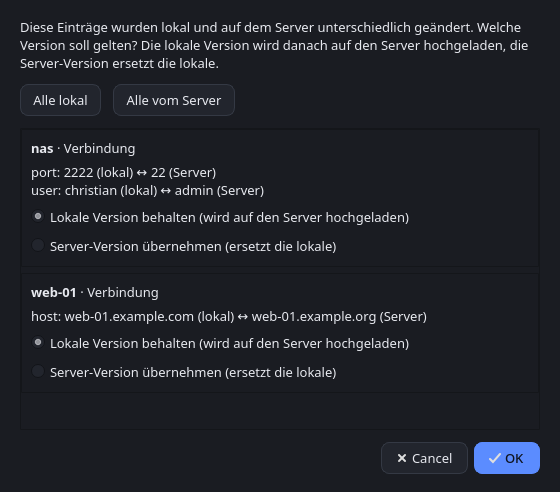
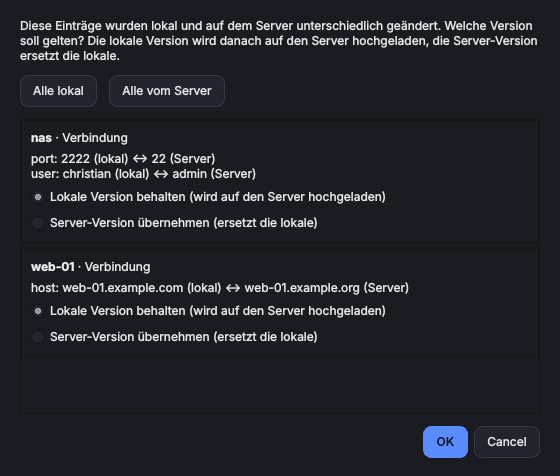
README und Screenshots an Version 3.7.1 angepasst
README (de/en): Abschnitte zu integriertem Terminal mit Kacheln und zum Zwischenablage-Verlauf, Proxmox je Knoten,
Hinweis auf die Einstellungen; neue Screenshots (Kacheln hell/dunkel, „Eingabe an alle“, Einstellungen).
Alle Screenshots neu erzeugt (Seitenleiste ohne Terminals/Viewer/Synchronisation). tools/screenshots.py um die
Bilder „kacheln“ und „einstellungen“ erweitert.

Claude-Session: https://claude.ai/code/session_01LZ7SSMG2W3aVt2BNVFYdXC

diff --git a/tools/screenshots.py b/tools/screenshots.py
@@ -33,7 +33,7 @@ from sesam.gui import style, theme  # noqa: E402
 from sesam.models import Config, Connection, Snippet, Terminal  # noqa: E402
 
 MODES = (("light", "hell"), ("dark", "dunkel"))
-PARTS = ("hauptfenster", "verbindung", "dateibrowser", "snippets", "synckonflikt")
+PARTS = ("hauptfenster", "verbindung", "dateibrowser", "snippets", "synckonflikt", "kacheln", "einstellungen")
 
 
 def demo_config() -> tuple[Config, dict[str, Connection]]:
@@ -92,7 +92,7 @@ def main_window(cfg, conns, tmp: Path, out: Path, label: str) -> None:
     from sesam.gui.main_window import MainWindow
 
     w = MainWindow(cfg, tmp / "config.json")
-    w.resize(1180, 680)
+    w.resize(1180, 760)
     w.show()
     QApplication.processEvents()
     boxes = [
@@ -113,9 +113,79 @@ def main_window(cfg, conns, tmp: Path, out: Path, label: str) -> None:
     item = w._find_item(conns["web1"].id)
     if item is not None:
         w.tree.setCurrentItem(item)
-    w.resize(1180, 680)
+    w.resize(1180, 760)
     grab(w, out / f"hauptfenster-{label}.png")
     w.close()
+
+
+DEMO_SESSIONS = (  # (Reitername, Prompt-Host, [(Befehl, Ausgabezeilen), …]) für das integrierte Terminal
+    ("web-01", "admin@web-01", [("uptime", [" 10:42:07 up 41 days,  3:12,  1 user,  load average: 0.08, 0.11, 0.09"]),
+                                ("systemctl is-active nginx", ["active"])]),
+    ("web-02", "admin@web-02", [("uptime", [" 10:42:09 up 41 days,  3:10,  1 user,  load average: 0.15, 0.12, 0.10"]),
+                                ("systemctl is-active nginx", ["active"])]),
+    ("db-01", "admin@db-01", [("df -h /var/lib/postgresql", ["Filesystem      Size  Used Avail Use% Mounted on",
+                                                             "/dev/sdb1       200G  128G   62G  68% /var/lib/postgresql"])]),
+    ("docker-host", "admin@docker", [("docker ps --format '{{.Names}}'", ["nginx", "postgres", "redis"])]),
+)
+
+
+def _terminal_window(cfg, tmp: Path):
+    """Hauptfenster mit vier Sitzungen des integrierten Terminals als Kacheln (ohne echte Prozesse, der Bildschirm wird mit Beispieltext gefüllt)."""
+    from sesam.gui.main_window import MainWindow
+    from sesam.gui.terminal_view import TerminalView
+
+    w = MainWindow(cfg, tmp / "config.json")
+    w.resize(1180, 680)
+    w.show()
+    QApplication.processEvents()
+    with mock.patch.object(TerminalView, "start", lambda self, args, env: None):
+        views = [w._open_embedded(["true"], name, {}) for name, _host, _commands in DEMO_SESSIONS]
+    w._tile_all()
+    w.resize(1180, 680)
+    for _ in range(5):
+        QApplication.processEvents()
+    for view, (_name, host, commands) in zip(views, DEMO_SESSIONS):
+        prompt = f"\x1b[1;32m{host}\x1b[0m:\x1b[1;34m~\x1b[0m$ "
+        text = "".join(prompt + command + "\r\n" + "".join(line + "\r\n" for line in output) for command, output in commands)
+        view._feed((text + prompt).encode())
+    views[0].setFocus()
+    for _ in range(5):
+        QApplication.processEvents()
+    return w, views
+
+
+def _close_terminal_window(w) -> None:
+    from PySide6.QtWidgets import QMessageBox
+
+    # Die Sitzungen sind Attrappen, gelten aber als laufend: die Rückfrage beim Beenden gleich bejahen
+    with mock.patch("sesam.gui.main_window.QMessageBox.question", return_value=QMessageBox.StandardButton.Yes):
+        w.close()
+
+
+def terminal_tiles(cfg, conns, tmp: Path, out: Path, label: str) -> None:
+    w, _views = _terminal_window(cfg, tmp)
+    grab(w, out / f"terminal-kacheln-{label}.png")
+    _close_terminal_window(w)
+
+
+def terminal_broadcast(cfg, conns, tmp: Path, out: Path) -> None:
+    w, _views = _terminal_window(cfg, tmp)
+    w._toggle_broadcast(w._terminal_tabs()[0])
+    for _ in range(5):
+        QApplication.processEvents()
+    grab(w, out / "terminal-eingabe-an-alle.png")
+    _close_terminal_window(w)
+
+
+def settings_dialog(cfg, conns, out: Path) -> None:
+    from sesam.gui.settings_dialog import SettingsDialog
+
+    nothing = lambda *_: None  # noqa: E731
+    d = SettingsDialog(100, "de", nothing, nothing, wireguard=True, set_wireguard=nothing, toasts=True, set_toasts=nothing,
+                       favorites=True, set_favorites=nothing, open_terminals=nothing, open_viewers=nothing, open_sync=nothing)
+    d.adjustSize()
+    grab(d, out / "einstellungen.png")
+    d.close()
 
 
 def connection_dialog(cfg, conns, out: Path) -> None:
@@ -222,6 +292,12 @@ def main() -> int:
                 main_window(cfg, conns, tmp, out, label)
             if "verbindung" in parts and mode == "light":
                 connection_dialog(cfg, conns, out)
+            if "einstellungen" in parts and mode == "light":
+                settings_dialog(cfg, conns, out)
+            if "kacheln" in parts:
+                terminal_tiles(cfg, conns, tmp, out, label)
+                if mode == "light":
+                    terminal_broadcast(cfg, conns, tmp, out)
             if "snippets" in parts:
                 snippets_dialog(cfg, conns, out, label)
             if "synckonflikt" in parts:

diff --git a/README.md b/README.md
@@ -34,6 +34,12 @@ Häufige Verbindungen als Favoriten oben im Baum (werden mit synchronisiert); St
 ### Eigenes Terminal
 Jede Verbindung öffnet sich im Terminal deiner Wahl (Windows Terminal, PowerShell, cmd, PuTTY, GNOME Terminal, eigene Programme) über frei konfigurierbare Befehlsvorlagen, auch pro Verbindung verschieden.
 
+### Integriertes Terminal
+Verbindungen öffnen sich auf Wunsch direkt in einem Reiter von Sesam, ohne externes Terminal (Auswahl, Kopieren, Verlauf, Schriftgröße). Mehrere Sitzungen lassen sich als **Kacheln** nebeneinander oder untereinander zeigen, auf Knopfdruck **alle Sitzungen als Raster**; optional geht die Eingabe an **alle Kacheln gleichzeitig** (ausdrücklich zuschaltbar, deutlich gekennzeichnet).
+
+### Zwischenablage-Verlauf
+Im Terminal Kopiertes bleibt abrufbar und lässt sich in einem oder mehreren Terminals einfügen; der Verlauf wird verschlüsselt gespeichert und nie synchronisiert.
+
 ### Zugangsdaten
 Passwörter im Schlüsselbund des Betriebssystems, nicht in der Konfigurationsdatei. Identitäten bündeln Benutzer, Schlüssel und Passwort für viele Verbindungen.
 
@@ -59,7 +65,7 @@ Den Bildschirm eines Geräts öffnen, im **eingebauten VNC-Viewer** oder im View
 Container eines Hosts im Verbindungsbaum anzeigen, starten, stoppen, neu starten, löschen und per Doppelklick eine Shell im Container öffnen.
 
 ### Proxmox
-VMs und LXC-Container im Baum, Shell in LXC und VM, Starten, Herunterfahren, Stoppen und Neustarten.
+VMs und LXC-Container des jeweiligen Knotens im Baum (in einem Cluster je Knoten eine Verbindung), Shell in LXC und VM, Starten, Herunterfahren, Stoppen und Neustarten.
 
 ### Cisco-Switches
 Ports im Baum mit Zustand, VLAN und Geschwindigkeit; ein- und ausschalten, Beschreibung ändern, Konfiguration speichern.
@@ -71,7 +77,7 @@ Die Statuszeile zeigt, ob der Rechner mit einem WireGuard-Tunnel verbunden ist (
 Verbindungen, Gruppen, Identitäten, Schlüssel und Snippets zwischen mehreren Geräten abgleichen; Passwörter und private Schlüssel nur verschlüsselt (AES-256-GCM).
 
 ### Windows und Linux
-Gleiche Bedienung auf beiden Systemen, helles und dunkles Design, einstellbare Schriftgröße, Oberfläche auf Deutsch und Englisch.
+Gleiche Bedienung auf beiden Systemen, helles und dunkles Design, einstellbare Schriftgröße, Oberfläche auf Deutsch und Englisch. Terminals, Viewer und Synchronisation verwaltest du in den **Einstellungen**.
 
 ## Start
 
@@ -158,6 +164,14 @@ Der Befehl `sesam` liegt in `~/.local/bin` (bei manchen Distributionen muss der 
 | ------------------------------------------------------ | ---------------------------------------------------------- |
 | ![Snippets (hell)](docs/screenshots/snippets-hell.png) | ![Snippets (dunkel)](docs/screenshots/snippets-dunkel.png) |
 
+| Integriertes Terminal mit Kacheln (hell) | Integriertes Terminal mit Kacheln (dunkel) |
+| ---------------------------------------- | ------------------------------------------ |
+| ![Kacheln (hell)](docs/screenshots/terminal-kacheln-hell.png) | ![Kacheln (dunkel)](docs/screenshots/terminal-kacheln-dunkel.png) |
+
+| „Eingabe an alle Kacheln senden“ (roter Rand) | Einstellungen |
+| --------------------------------------------- | ------------- |
+| ![Eingabe an alle Kacheln](docs/screenshots/terminal-eingabe-an-alle.png) | ![Einstellungen](docs/screenshots/einstellungen.png) |
+
 Die Bilder zeigen Beispieldaten (erfundene Hosts) und wurden mit dem Qt-Plattform-Plugin „offscreen“ erzeugt; echte Fenster können je nach Desktop in Rahmen und Schrift abweichen.
 
 ## Dokumentation
@@ -169,7 +183,7 @@ Die ausführliche Anleitung steht im Ordner [`docs/`](docs/):
 | ----------------------------------------------------------- | ---------------------------------------------------------------------------------------- |
 | [Verbindungen verwalten](docs/verbindungen.md)              | Darstellung, Gruppen, Favoriten und Schnellstarter, Farben und Tags, offene Verbindungen |
 | [Zugangsdaten und sudo](docs/zugangsdaten.md)               | Identitäten, SSH-Schlüssel, sudo, Passwörter                                          |
-| [Terminals und Snippets](docs/terminals-snippets.md)        | Terminals konfigurieren, Verbindungsfehler und Host-Schlüssel, Snippets                 |
+| [Terminals und Snippets](docs/terminals-snippets.md)        | Terminals konfigurieren, integriertes Terminal mit Kacheln, Zwischenablage-Verlauf, Verbindungsfehler und Host-Schlüssel, Snippets |
 | [Dateien und Tunnel](docs/dateien-tunnel.md)                | SFTP-Dateibrowser, Port-Weiterleitungen                                                  |
 | [Fernzugriff (VNC und RDP)](docs/fernzugriff.md)            | Eingebauter VNC-Viewer, externe Viewer, Tunnel und Direktverbindung, Passwort            |
 | [Docker, Proxmox, Cisco und WireGuard](docs/geraete.md)     | Container, Gäste, Switch-Ports, WireGuard-Anzeige                                       |

diff --git a/README.en.md b/README.en.md
@@ -34,6 +34,12 @@ Frequent connections as favorites at the top of the tree (synced too); Ctrl+K op
 ### Your own terminal
 Every connection opens in the terminal of your choice (Windows Terminal, PowerShell, cmd, PuTTY, GNOME Terminal, custom programs) through freely configurable command templates, also different per connection.
 
+### Integrated terminal
+Connections can open right in a tab of Sesam, without an external terminal (selection, copy, history, font size). Several sessions can be shown as **tiles** side by side or one below the other, and with one click **all sessions as a grid**; optionally your input goes to **all tiles at once** (switched on explicitly and clearly marked).
+
+### Clipboard history
+Text copied in the terminal stays available and can be pasted into one or several terminals; the history is stored encrypted and never synced.
+
 ### Credentials
 Passwords live in the operating system’s keychain, not in the configuration file. Identities bundle user, key and password for many connections.
 
@@ -59,7 +65,7 @@ Open a device's screen in the **built-in VNC viewer** or in the viewer of your c
 Show a host’s containers in the connection tree; start, stop, restart and delete them, and open a shell in a container with a double-click.
 
 ### Proxmox
-VMs and LXC containers in the tree, shell in LXC and VMs, start, shut down, stop and restart.
+VMs and LXC containers of the respective node in the tree (in a cluster one connection per node), shell in LXC and VMs, start, shut down, stop and restart.
 
 ### Cisco switches
 Ports in the tree with state, VLAN and speed; switch them on and off, change descriptions, save the configuration.
@@ -71,7 +77,7 @@ The status bar shows whether the computer is connected to a WireGuard tunnel (tu
 Sync connections, groups, identities, keys and snippets between several devices; passwords and private keys are stored encrypted only (AES-256-GCM).
 
 ### Windows and Linux
-The same experience on both systems, light and dark theme, adjustable font size, interface in German and English.
+The same experience on both systems, light and dark theme, adjustable font size, interface in German and English. You manage terminals, viewers and synchronization in the **Settings**.
 
 ## Getting started
 
@@ -157,6 +163,14 @@ The screenshots show the German interface; the English interface looks the same 
 | --- | --- |
 | ![Snippets (light)](docs/screenshots/snippets-hell.png) | ![Snippets (dark)](docs/screenshots/snippets-dunkel.png) |
 
+| Integrated terminal with tiles (light) | Integrated terminal with tiles (dark) |
+| --- | --- |
+| ![Tiles (light)](docs/screenshots/terminal-kacheln-hell.png) | ![Tiles (dark)](docs/screenshots/terminal-kacheln-dunkel.png) |
+
+| “Send input to all tiles” (red border) | Settings |
+| --- | --- |
+| ![Input to all tiles](docs/screenshots/terminal-eingabe-an-alle.png) | ![Settings](docs/screenshots/einstellungen.png) |
+
 The images show sample data (made-up hosts) and were created with the Qt platform plugin “offscreen”; real windows may differ in frame and font depending on the desktop.
 
 ## Documentation
@@ -167,7 +181,7 @@ The detailed guide is in the [`docs/en/`](docs/en/) folder:
 |---|---|
 | [Managing connections](docs/en/verbindungen.md) | Appearance, groups, favorites and quick launcher, colors and tags, open connections |
 | [Credentials and sudo](docs/en/zugangsdaten.md) | Identities, SSH keys, sudo, passwords |
-| [Terminals and snippets](docs/en/terminals-snippets.md) | Configuring terminals, connection errors and host keys, snippets |
+| [Terminals and snippets](docs/en/terminals-snippets.md) | Configuring terminals, integrated terminal with tiles, clipboard history, connection errors and host keys, snippets |
 | [Files and tunnels](docs/en/dateien-tunnel.md) | SFTP file browser, port forwarding |
 | [Remote access (VNC and RDP)](docs/en/fernzugriff.md) | Built-in VNC viewer, external viewers, tunnel and direct connection, password |
 | [Docker, Proxmox, Cisco and WireGuard](docs/en/geraete.md) | Containers, guests, switch ports, WireGuard indicator |
